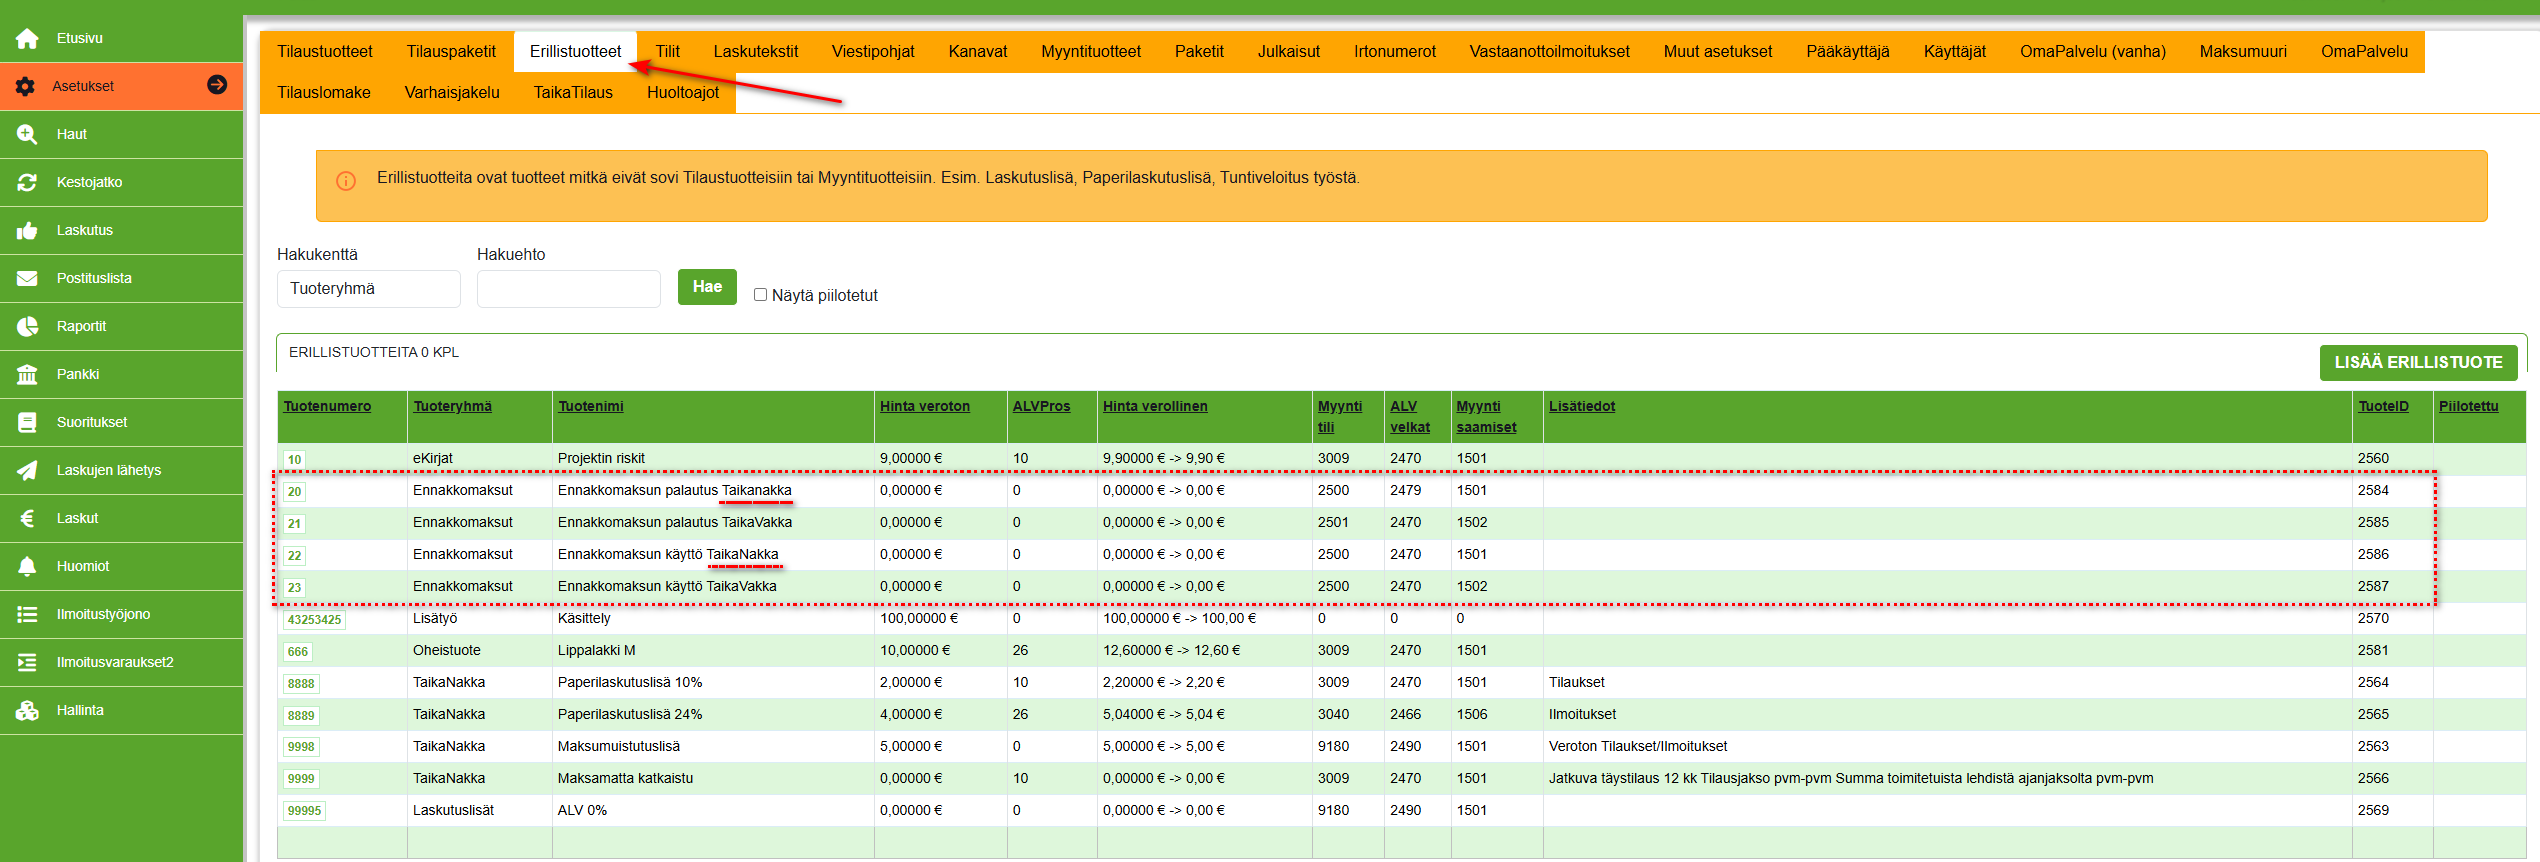
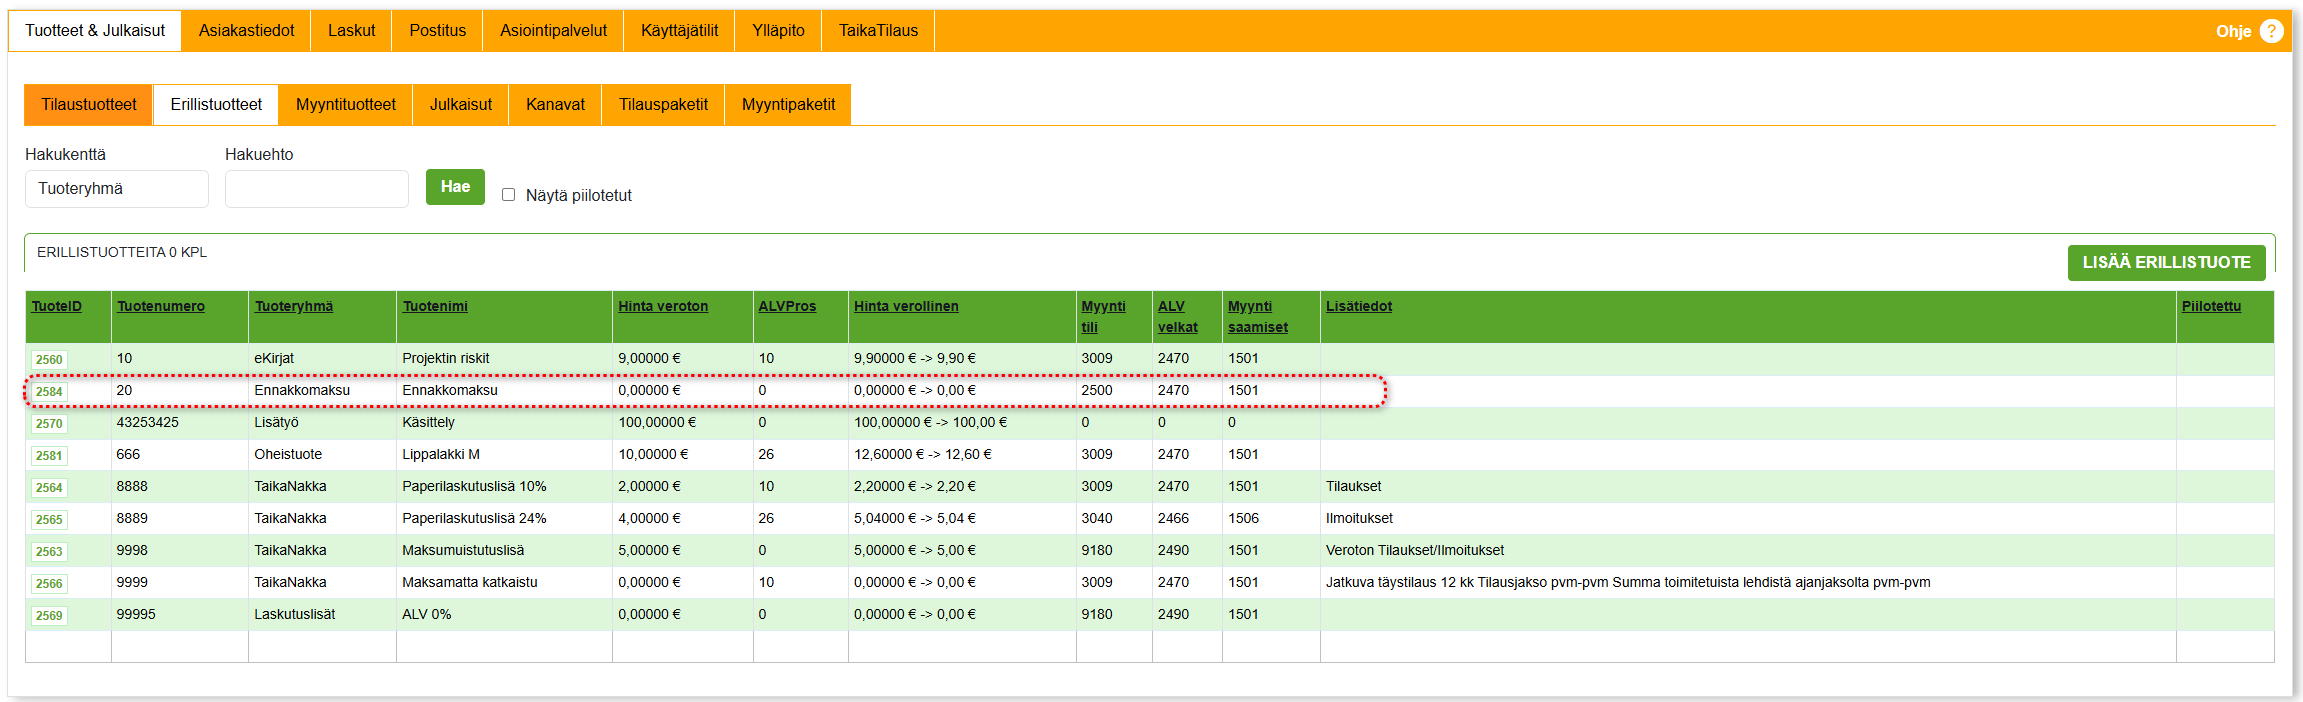
saldo ohjeiden päivitys

diff --git a/docs/ohjeet/yleiset_ominaisuudet/saldo.md b/docs/ohjeet/yleiset_ominaisuudet/saldo.md
@@ -29,16 +29,16 @@ Ennakkomaksujen tiliöintiä varten tarvitaan omat tilit:
 
 Suosittelemme keskustelemaan tileistä kirjanpitäjän kanssa.
 
-### Erillistuotteet
+### Erillistuote
 
-Ennakkomaksujen tuoterivejä ja niiden tiliöintejä varten tulee luoda omat erillistuotteet. Jos käytössä on useampi lehti, jokaiselle tulee luoda omat vastaavat erillistuotteet.
+Saldon käyttöä varten pitää luoda erillistuote, joka näkyy laskulla tuoterivinä, kun saldoa käytetään sen maksamiseen. 
 
-Erillistuotteelle asetetaan seuraavat tiedot (esimerkkinä rahan palautus):
+Erillistuotteelle asetetaan seuraavat tiedot:
 
 - **Tuotenumero** (oma valinnainen)
 - **Tuoteryhmä**, esim. *Ennakkomaksu*
-- **Tuotenimi**, esim. *Ennakkomaksun palautus [lehti]*
-- **Myyntitili** (tili, jonka kautta rahan palautus hoidetaan)
+- **Tuotenimi**, esim. *Ennakkomaksun käyttö [lehti]*
+- **Myyntitili** (tili, johon saldo tiliöidään)
 - **ALV-velkatili** (tilausten ALV-velkatili 10 %)
 - **Myyntisaamistili** (myyntisaamistili, jota käytetään kyseisen lehden myyntisaamisissa)
 
@@ -46,7 +46,7 @@ Erillistuotteelle asetetaan seuraavat tiedot (esimerkkinä rahan palautus):
 
 ![Tilaustiedot - Maksetun tilauksen katkaisu](/img/ohjeet/saldo-palautus2.png)
 
-### Pääkäyttäjäasetukset
+### Ylläpitoasetukset
 
 Näitä asetuksia tarvitaan saldo- ja rahanpalautus-toiminnon käyttöönottoon.
 
@@ -54,6 +54,9 @@ Näitä asetuksia tarvitaan saldo- ja rahanpalautus-toiminnon käyttöönottoon.
 - **Saldon käytön TuoteID:** sen erillistuotteen TuoteID, jota käytetään tuoterivin luomiseen laskulle, kun saldoa käytetään laskun maksamiseen.
 - **Maksun palautusten tili:** tili, jolle palautettavat rahat kirjataan odottamaan palautusta ja jolta palautukset kuitataan maksetuiksi.
 - **Maksetun laskun rahan palautus** -kentän aktivoimalla laskulle näkyy painike, jonka kautta lasku voidaan hyvittää ja sen maksettu summa siirtää asiakkaalle palautettavaksi.
+
+![Tilaustiedot - Maksetun tilauksen katkaisu](/img/ohjeet/saldo-pal7.png)
+*Löydät asetukset: Asetukset/Ylläpito-välilehdeltä.*
 
 ![Tilaustiedot - Maksetun tilauksen katkaisu](/img/ohjeet/saldo-palautus3.png)
 
